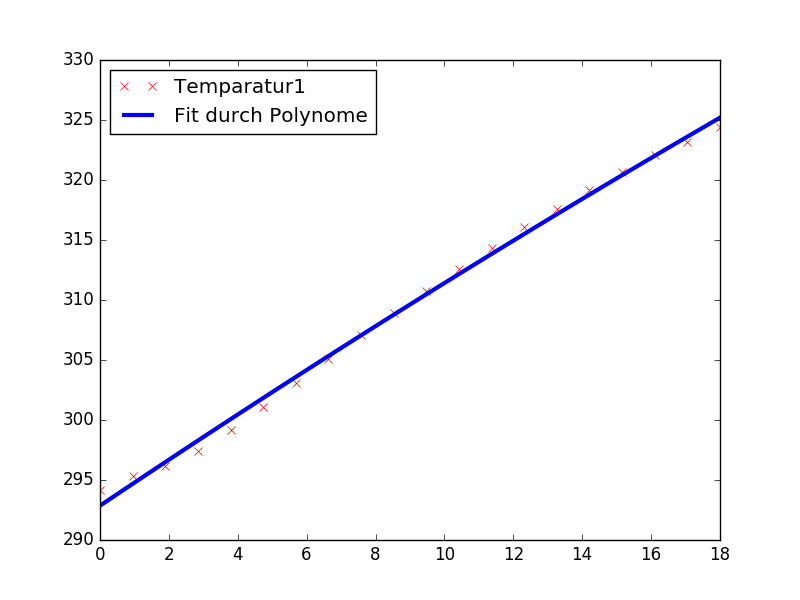
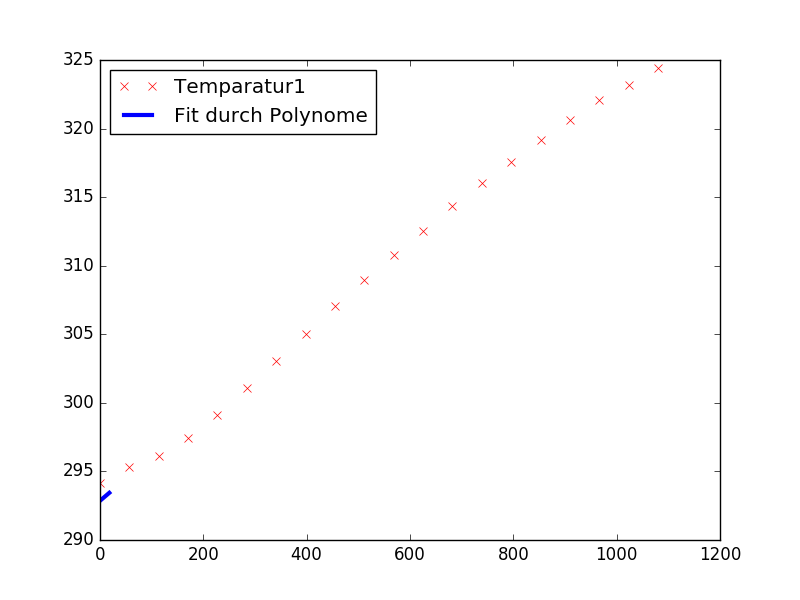
Das mit der Zeit gefixt.

diff --git a/pythontest/new.py b/pythontest/new.py
@@ -31,7 +31,7 @@ Pa = Pa+1
 Pb = Pb+1
 T1 += 273.15
 T2 += 273.15
-Zeitab = np.linspace(0,18,len(T1))
+Zeitab = np.linspace(0,1080,len(T1))
 plt.plot(Zeitab, T1)
 plt.plot(Zeitab, T2)
 
@@ -141,10 +141,10 @@ print('Ableitung',Ableitung(12*60,A2T1,PolynomBT1))
 def realGuete(Jim,m1,mkck,cw,N):
     return (m1*cw+mkck)*Jim/N
 
-print('GueteT1bei 2',realGuete(Ableitung(2,A2T1,PolynomBT1),3,660,cWasser,Leistung[2]))
-print('GueteT1bei 8',realGuete(Ableitung(8,A2T1,PolynomBT1),3,660,cWasser,Leistung[8]))
-print('GueteT1bei 12',realGuete(Ableitung(12,A2T1,PolynomBT1),3,660,cWasser,Leistung[12]))
-print('GueteT1bei 16',realGuete(Ableitung(16,A2T1,PolynomBT1),3,660,cWasser,Leistung[16]))
+print('GueteT1bei 2',realGuete(Ableitung(Zeitab[2],A2T1,PolynomBT1),3,660,cWasser,Leistung[2]))
+print('GueteT1bei 8',realGuete(Ableitung(Zeitab[8],A2T1,PolynomBT1),3,660,cWasser,Leistung[8]))
+print('GueteT1bei 12',realGuete(Ableitung(Zeitab[12],A2T1,PolynomBT1),3,660,cWasser,Leistung[12]))
+print('GueteT1bei 16',realGuete(Ableitung(Zeitab[16],A2T1,PolynomBT1),3,660,cWasser,Leistung[16]))
 
 #ideal
 print(T1[16]/(T1[16]-T2[16]))
